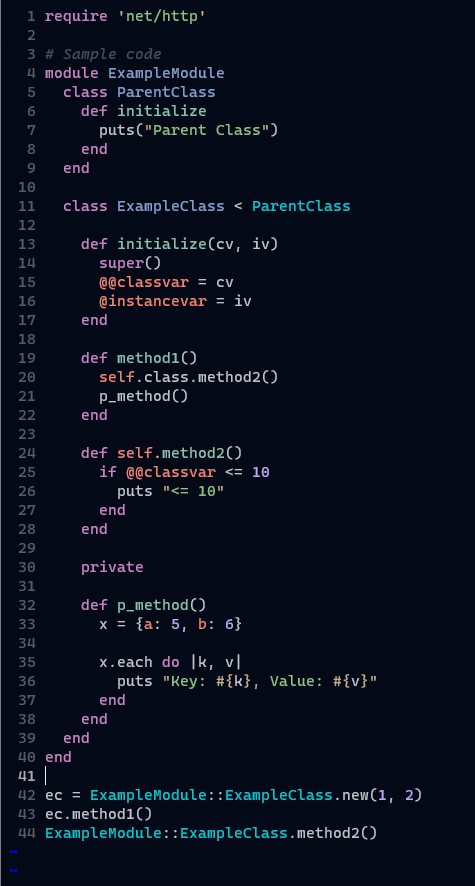
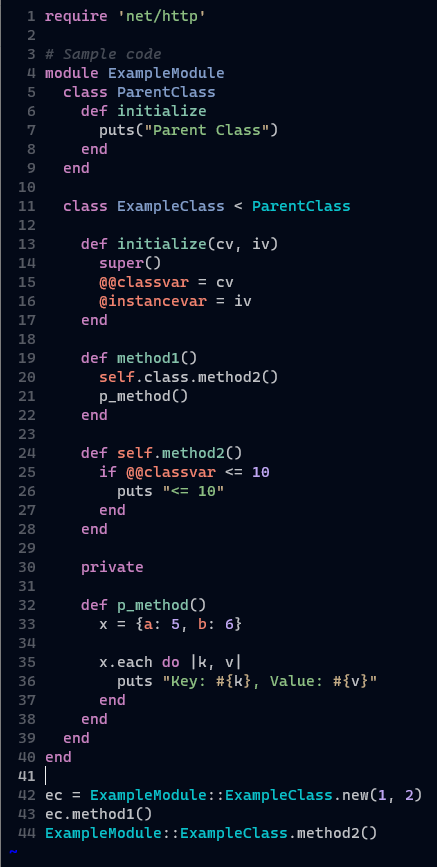
vim screenshot

diff --git a/color-themes/vim/colors/README.md b/color-themes/vim/colors/README.md
@@ -8,4 +8,6 @@ True color support is required.
 
 Screenshot of Windows Terminal (and WSL)
 
-![html](/screenshot/vim.png)
+|         Night Coder          |        Night Coder Warm        |
+| :--------------------------: | :----------------------------: |
+| ![ruby](/screenshot/vim.png) | ![ruby](/screenshot/vim-w.png) |
